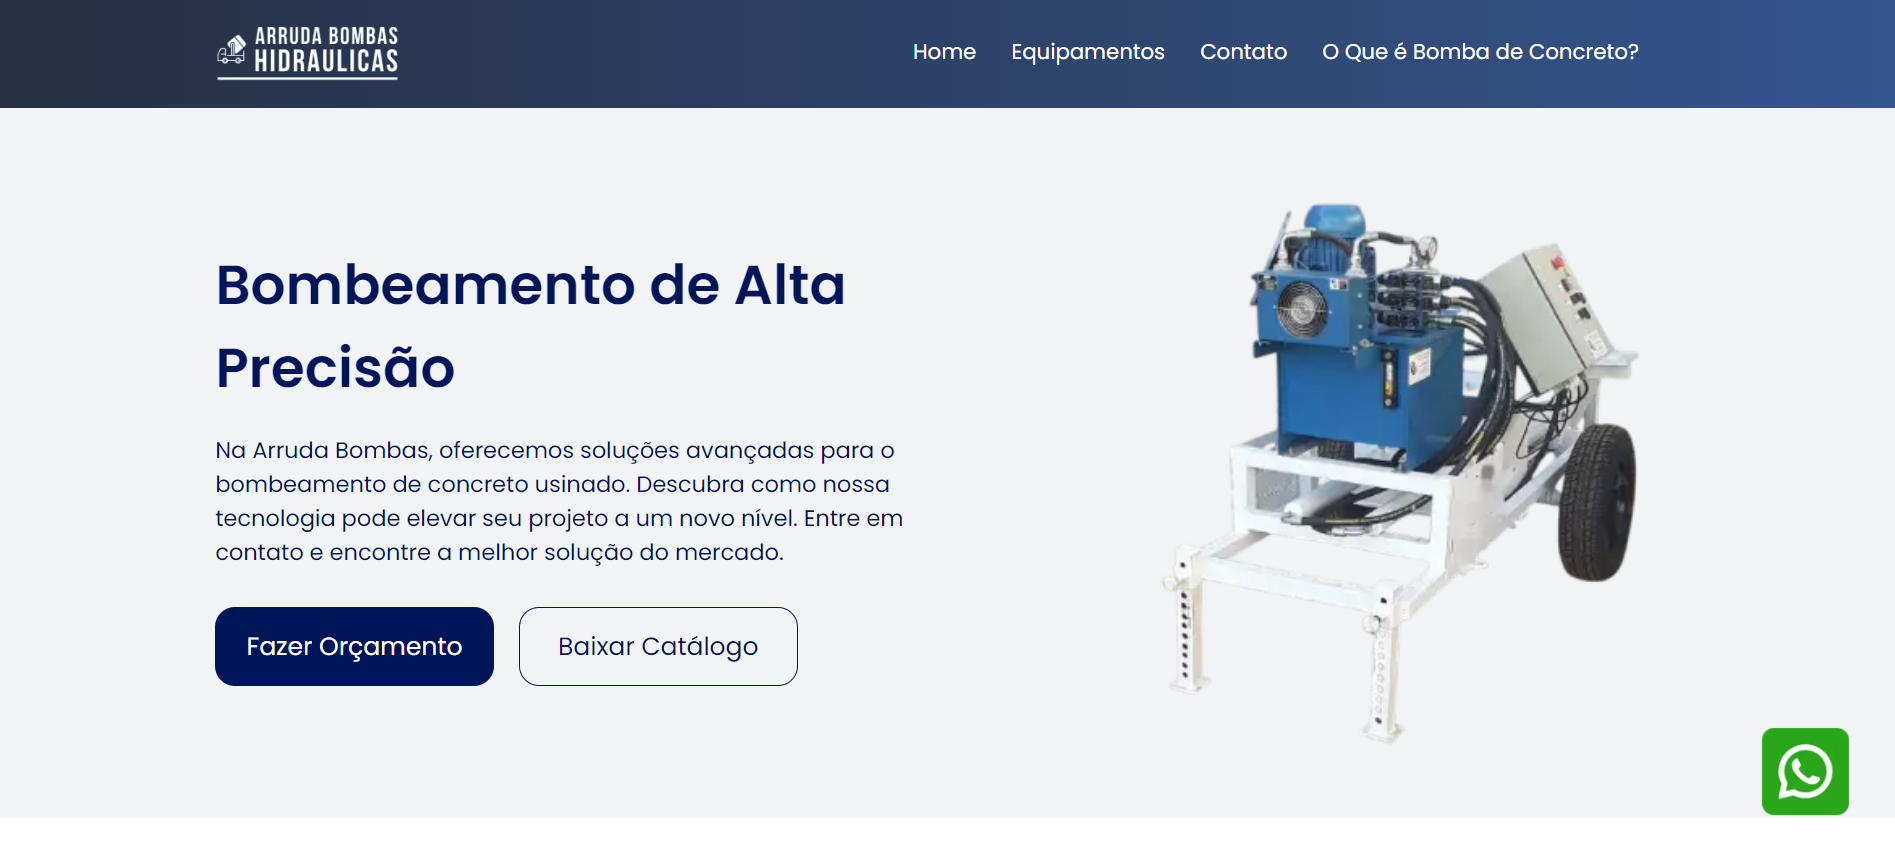
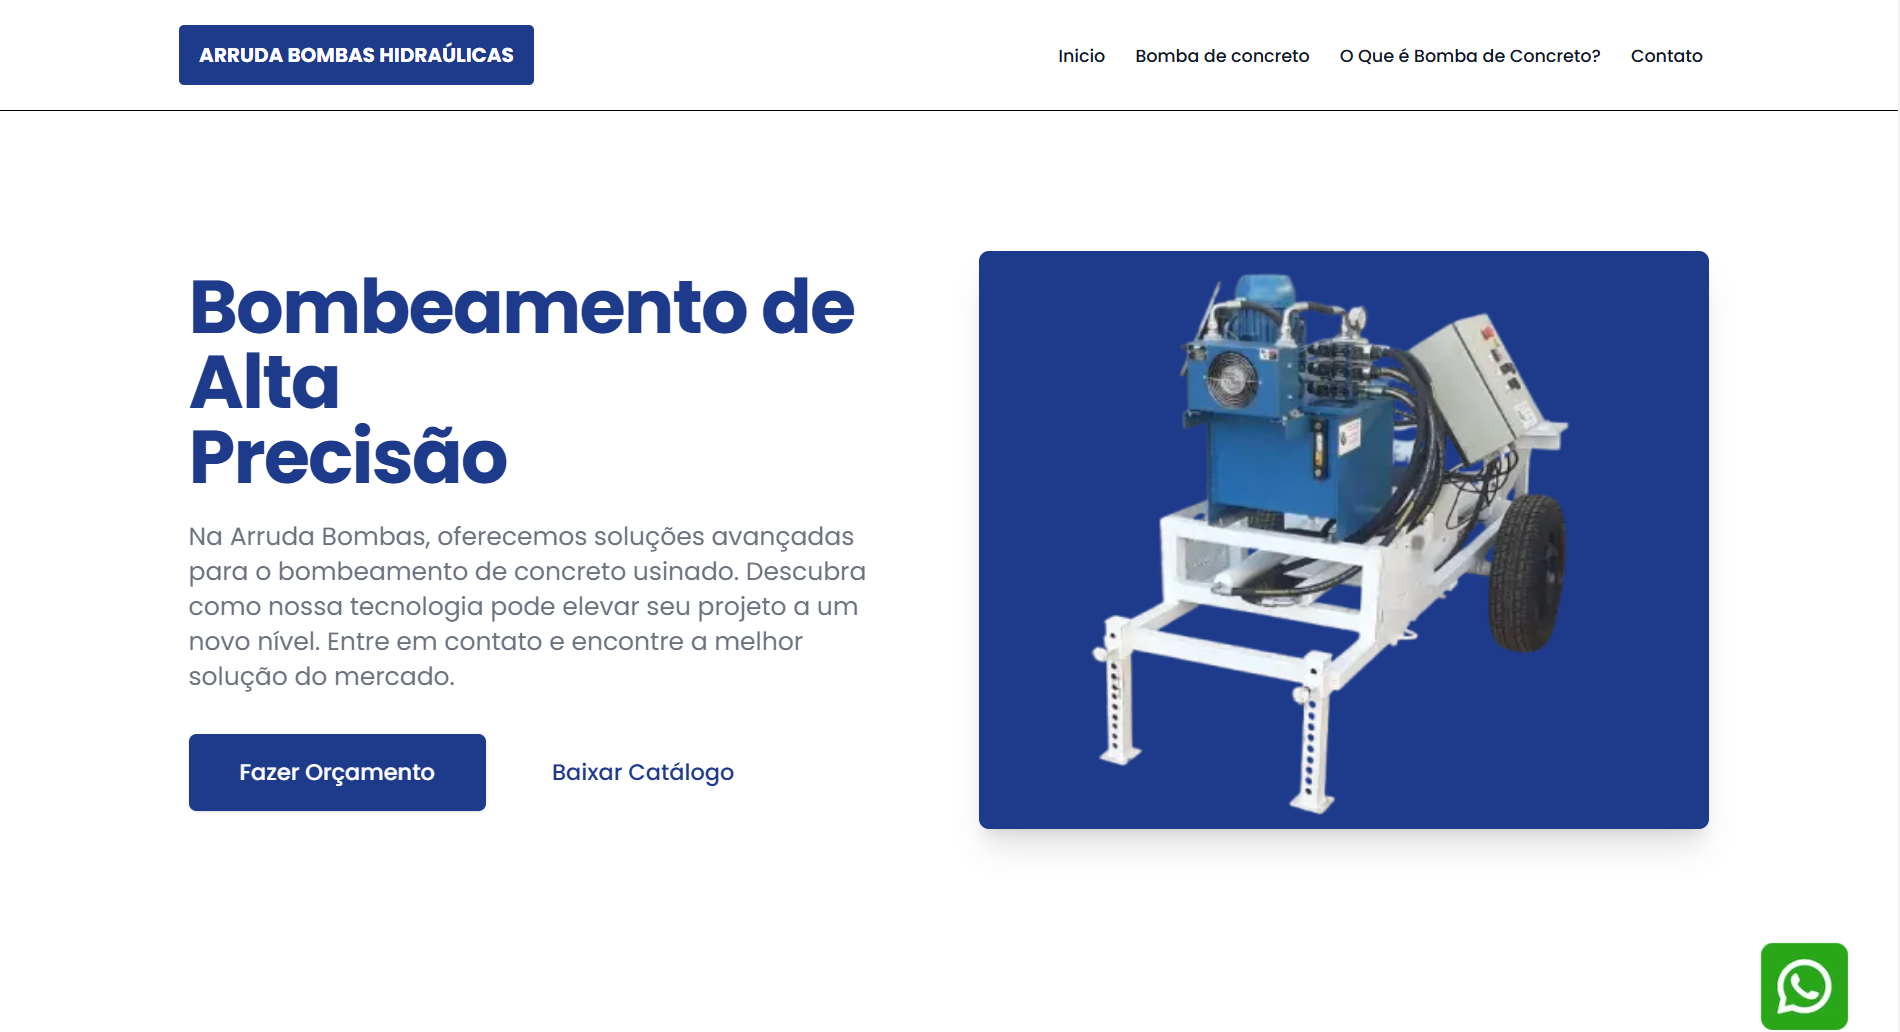
ajustes animcacao

diff --git a/src/components/contato.tsx b/src/components/contato.tsx
@@ -1,11 +1,19 @@
 "use client"
 
+import AOS from 'aos';
+import 'aos/dist/aos.css';
 import Image from "next/image"
-import { FormEvent, useState } from "react"
+import { FormEvent, useState, useEffect } from "react"
 import emailjs from '@emailjs/browser'
 import Link from "next/link"
 
 export const ContatoPage = () => {
+    useEffect(() => {
+        AOS.init({
+            duration: 1000,
+            once: true,
+        });
+    }, []);
 
     const [name, setName] = useState('')
     const [email, setEmail] = useState('')
@@ -54,12 +62,12 @@ export const ContatoPage = () => {
             <div className="flex flex-col items-center text-center justify-center">
                 <h1 className="text-[#001659] font-semibold text-[28px] lg:text-[32px] ml-4 lg:ml-0">Entre em Contato</h1>
                 <div className="flex lg:flex-row lg:gap-14 gap-8 lg:pt-16 pt-[52px]">
-                    <div className="rounded-[10px] lg:flex hidden md:flex w-[260px] lg:w-[399px] text-start h-[746px] bg-[#00238C]">
+                    <div className="rounded-[10px] lg:flex hidden md:flex w-[260px] lg:w-[399px] text-start h-[746px] bg-[#00238C]" data-aos="fade-right">
                         <div className="p-8">
                             <h3 className="lg:text-[24px] text-[15px] font-semibold pb-[24px] text-white">informações de contato</h3>
                             <p className="lg:text-[15px] md:w-48 lg:w-full text-sm text-[#C1C3C7]">Estamos aqui para ajudar! Escolha a forma de comunicação que mais lhe convém e entre em contato conosco.</p>
                             <div className="pt-[80px] flex-col flex gap-[35px]">
-                                <div className="flex items-center md:gap-3 lg:gap-6">
+                                <div className="flex items-center md:gap-3 lg:gap-6" >
                                     <Image
                                         src="/icons/telefone.svg"
                                         alt="Icone telefone"
@@ -121,7 +129,7 @@ export const ContatoPage = () => {
                             </div>
                         </div>
                     </div>
-                    <form className="pt-[30px] flex items-center  md:items-start flex-col gap-4" onSubmit={sendEmail}>
+                    <form className="pt-[30px] flex items-center  md:items-start flex-col gap-4" onSubmit={sendEmail} data-aos="fade-left">
                         <label htmlFor="" className="flex flex-col items-start font-medium text-[#001659] text-[20px]">
                             Nome
                             <input

diff --git a/src/components/initial.tsx b/src/components/initial.tsx
@@ -1,14 +1,27 @@
+"use client"
+
 import Image from "next/image"
 import Link from "next/link"
+import AOS from 'aos';
+import 'aos/dist/aos.css';
+import { useEffect } from "react";
 
 export const IntialPage = () => {
+    useEffect(() => {
+        AOS.init({
+            duration: 1000,
+            once: true,
+        });
+    }, []);
+
+
     return (
         <div className="relative bg-white overflow-hidden">
             <div className="max-w-7xl mx-auto">
                 <div className="relative  pb-8 bg-white sm:pb-16 md:pb-20 lg:pb-28 xl:pb-32">
                     <main className="mt-10 mx-auto max-w-7xl px-4 sm:mt-12 sm:px-6 md:mt-16 lg:mt-20 lg:px-8 xl:mt-28">
                         <div className="flex flex-col lg:flex-row items-center justify-between">
-                            <div className="sm:text-center lg:text-left lg:w-1/2">
+                            <div className="sm:text-center lg:text-left lg:w-1/2" data-aos="fade-right">
                                 <h1 className="text-4xl tracking-tight font-bold text-gray-900 sm:text-5xl md:text-6xl">
                                     <span className="block text-blue-900">Bombeamento de Alta</span>
                                     <span className="block text-blue-900">Precisão</span>
@@ -30,7 +43,7 @@ export const IntialPage = () => {
                                     </div>
                                 </div>
                             </div>
-                            <div className="lg:w-1/2 mt-10 lg:mt-0 lg:block hidden ml-12">
+                            <div className="lg:w-1/2 mt-10 lg:mt-0 lg:block hidden ml-12" data-aos="fade-left">
                                 <div className="bg-blue-900 h-full rounded-lg shadow-xl flex items-center justify-center text-white text-xl">
                                     <Image
                                         src="/img/img_Initial.png"

diff --git a/src/components/equipamentos.tsx b/src/components/equipamentos.tsx
@@ -1,9 +1,21 @@
+"use client"
+
 import Link from "next/link"
 import { CardEquipamentos } from "./cardEquipamentos"
+import { useEffect } from "react";
+import AOS from 'aos';
+import 'aos/dist/aos.css';
 
 export const EquipamentosPage = () => {
+    useEffect(() => {
+        AOS.init({
+            duration: 1000,
+            once: true,
+        });
+    }, []);
+
     return (
-        <section className="max-w-[1444px] flex m-auto items-center justify-center lg:my-[120px] my-[60px]" id="equipamento">
+        <section className="max-w-[1444px] flex m-auto items-center justify-center lg:my-[120px] my-[60px]" id="equipamento" data-aos="fade-up">
             <div className="flex flex-col items-center ">
                 <h1 className="text-[#001659] font-semibold text-[28px] text-center lg:text-[32px] ml-4 lg:ml-0">Nossos <span className="text-[#35558E]">Equipamentos!</span></h1>
                 <div className="flex pt-[52px] lg:w-[1200px] lg:gap-y-8 md:w-[800px] justify-center md:gap-[20px] md:flex-wrap lg:flex-row lg:gap-[21px] flex-col md:flex-row gap-y-8 ">

diff --git a/src/components/desenvolvimento.tsx b/src/components/desenvolvimento.tsx
@@ -1,7 +1,20 @@
+"use client"
+
 import Image from "next/image"
 import Link from "next/link"
+import AOS from 'aos';
+import 'aos/dist/aos.css';
+import { useEffect } from "react";
 
 export const DesenvolvimentoPage = () => {
+    useEffect(() => {
+        AOS.init({
+            duration: 1000,
+            once: true,
+        });
+    }, []);
+
+
     return (
         <section className="relative min-h-[600px] w-full">
             <div className="absolute inset-0">
@@ -16,7 +29,7 @@ export const DesenvolvimentoPage = () => {
                 <div className="absolute inset-0 bg-black/60" />
             </div>
 
-            <div className="relative max-w-7xl mx-auto px-4 py-20 md:py-32">
+            <div className="relative max-w-7xl mx-auto px-4 py-20 md:py-32" data-aos="fade-right">
                 <div className="max-w-2xl">
                     <h1 className="text-3xl md:text-4xl font-bold text-white mb-6">
                         Desenvolvimento de Equipamentos Sob Medida
